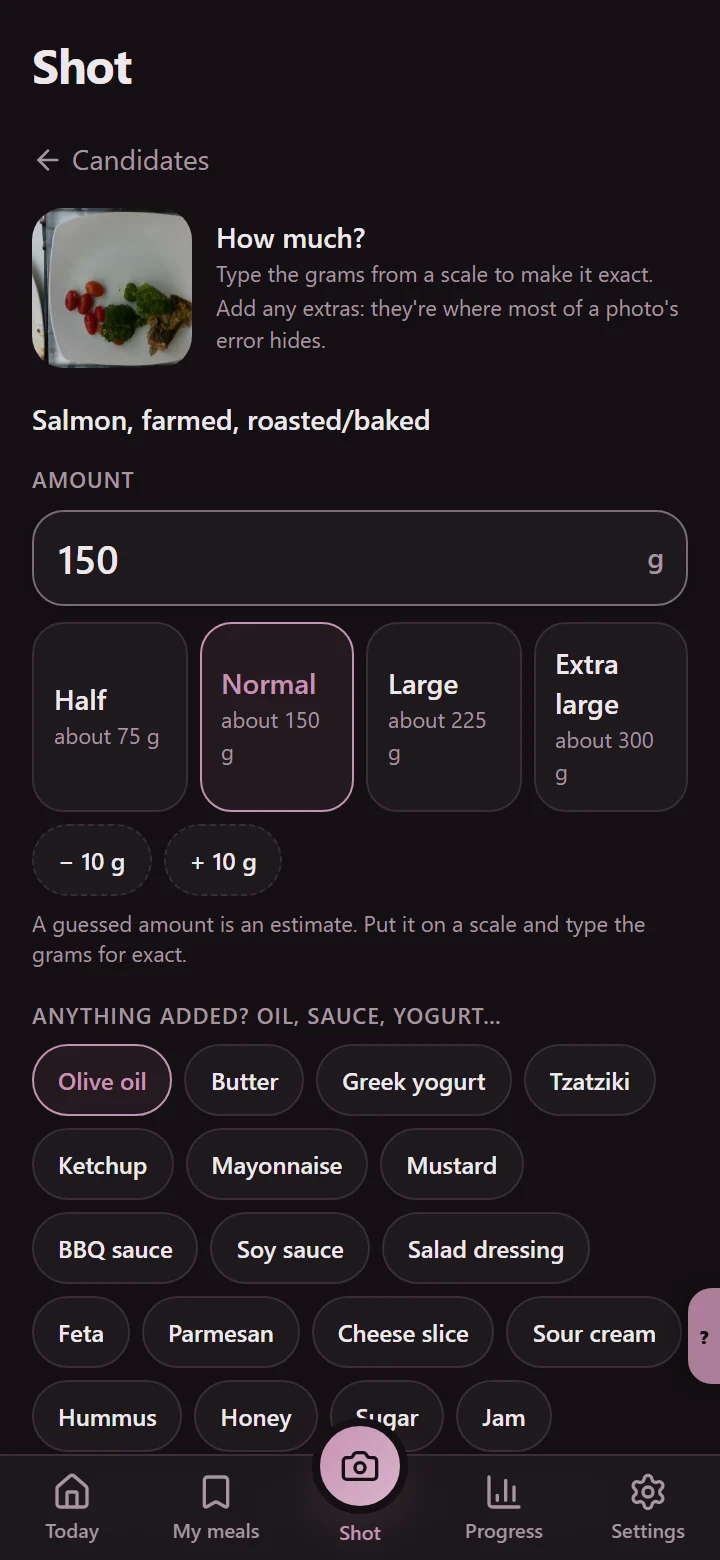
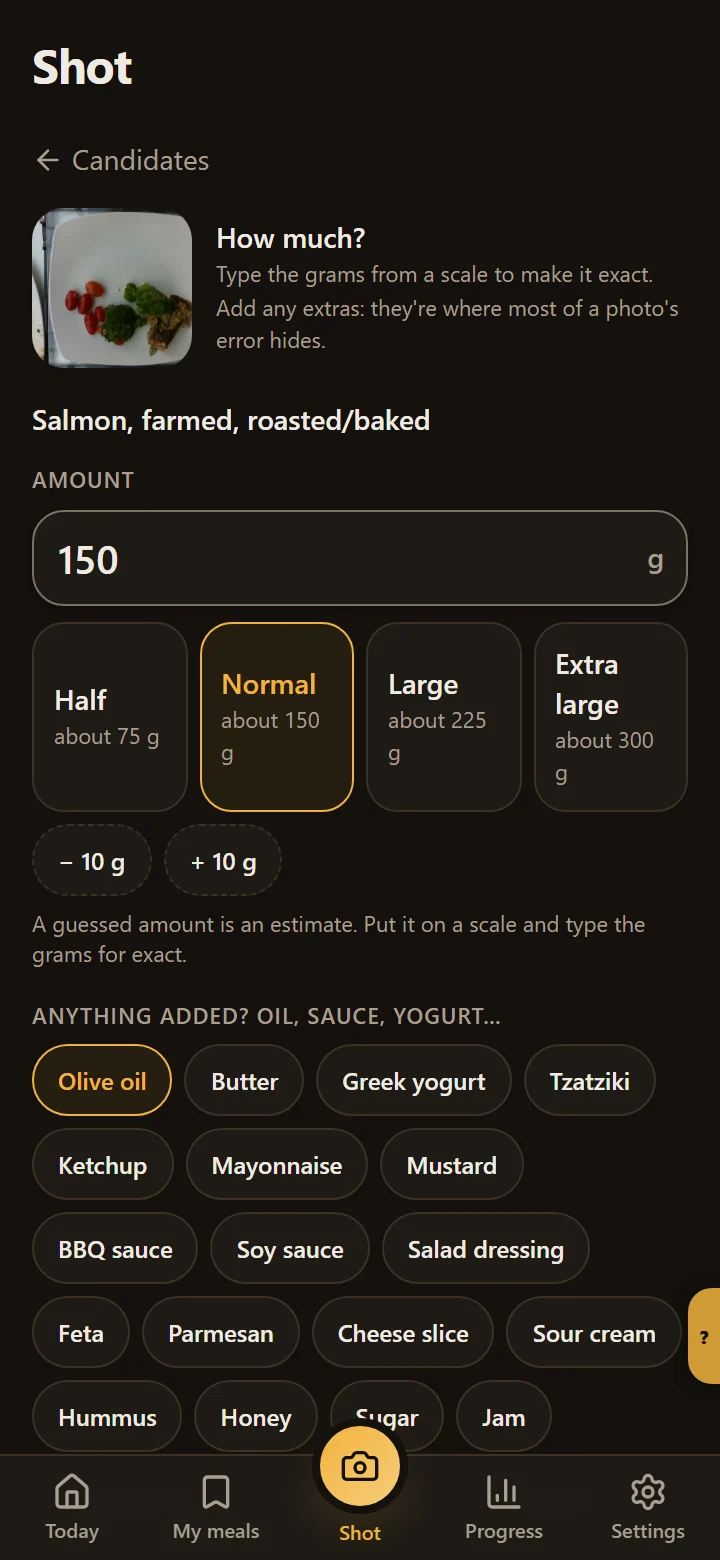
feat(site): honey look, matching the nutrition app's new default
- Honey accent on warm dark surfaces (the app's default theme and its new
  icon) in place of Fig: tokens, glows, theme colour, share image.
- Honey app icon and IB mark: header logo, site icons, favicon.
- Screenshots re-recorded from the app in dark Honey.

diff --git a/src/app/globals.css b/src/app/globals.css
@@ -10,14 +10,14 @@
  * off-white text, so every text-white and white/alpha border picks up the plum tint.
  */
 @theme inline {
-  --color-background: #151013;
-  --color-surface: #1e181c;
-  --color-surface-2: #292126;
-  --color-border: #392d35;
-  --color-primary: #c792b4;
-  --color-primary-glow: #d9b5cc;
-  --color-muted: #a696a0;
-  --color-white: #ede8eb;
+  --color-background: #14110d;
+  --color-surface: #1e1a15;
+  --color-surface-2: #2a241c;
+  --color-border: #3a3226;
+  --color-primary: #f2b33d;
+  --color-primary-glow: #f7cd7a;
+  --color-muted: #a89f92;
+  --color-white: #f0ebe3;
   --font-sans: "Inter", var(--font-plus-jakarta), ui-sans-serif, system-ui, sans-serif;
   --font-display: "Space Grotesk", var(--font-plus-jakarta), ui-sans-serif, system-ui, sans-serif;
 }
@@ -53,10 +53,10 @@ h3 {
   }
 }
 
-/* A soft fig glow behind the hero (the app's plum light), in place of the workout site's grid. */
+/* A soft honey glow behind the hero, in place of the workout site's grid. */
 .hero-grid {
-  background: radial-gradient(circle at 85% 0%, rgba(199, 146, 180, 0.2), rgba(199, 146, 180, 0) 45%),
-    radial-gradient(circle at 0% 30%, rgba(199, 146, 180, 0.08), rgba(199, 146, 180, 0) 35%);
+  background: radial-gradient(circle at 85% 0%, rgba(242, 179, 61, 0.2), rgba(242, 179, 61, 0) 45%),
+    radial-gradient(circle at 0% 30%, rgba(242, 179, 61, 0.08), rgba(242, 179, 61, 0) 35%);
 }
 
 @keyframes fade-up {

diff --git a/src/components/sections/Hero.tsx b/src/components/sections/Hero.tsx
@@ -21,7 +21,7 @@ export function Hero() {
           {/* The eyebrow is part of the H1 so the page's main heading names what the app is. */}
           <h1 className="max-w-xl">
             <span className="inline-flex items-center gap-2 rounded-full border border-border bg-surface py-1.5 pl-2.5 pr-3.5 font-[family-name:var(--font-display)] text-xs font-medium tracking-[0.04em] text-primary">
-              <span aria-hidden className="h-2 w-2 rounded-full bg-primary shadow-[0_0_12px_rgba(199,146,180,0.9)]" />
+              <span aria-hidden className="h-2 w-2 rounded-full bg-primary shadow-[0_0_12px_rgba(242,179,61,0.9)]" />
               {siteConfig.fullName} for Android
               <span className="sr-only">. </span>
             </span>

diff --git a/src/components/sections/Download.tsx b/src/components/sections/Download.tsx
@@ -12,7 +12,7 @@ export function Download() {
       <Container className="flex h-full min-h-0 flex-col justify-center">
         <Reveal>
           <div className="relative overflow-hidden rounded-[2rem] border border-primary/20 bg-surface px-6 py-10 text-center sm:px-12 sm:py-20">
-            <div className="pointer-events-none absolute inset-0 bg-[radial-gradient(ellipse_at_top,rgba(199,146,180,0.14),transparent_55%)]" />
+            <div className="pointer-events-none absolute inset-0 bg-[radial-gradient(ellipse_at_top,rgba(242,179,61,0.14),transparent_55%)]" />
             <div className="relative">
               <p className="text-xs font-semibold uppercase tracking-[0.22em] text-primary">
                 Download

diff --git a/src/components/FeatureCard.tsx b/src/components/FeatureCard.tsx
@@ -25,7 +25,7 @@ export function FeatureCard({
     </>
   );
   const className =
-    "group block rounded-2xl border border-white/8 bg-surface p-3 transition duration-300 hover:-translate-y-1 hover:border-primary/25 hover:shadow-[0_24px_60px_-32px_rgba(199,146,180,0.35)] sm:rounded-3xl sm:p-6 lg:p-7";
+    "group block rounded-2xl border border-white/8 bg-surface p-3 transition duration-300 hover:-translate-y-1 hover:border-primary/25 hover:shadow-[0_24px_60px_-32px_rgba(242,179,61,0.35)] sm:rounded-3xl sm:p-6 lg:p-7";
   if (href) {
     return (
       <article>

diff --git a/src/components/MobileSectionNav.tsx b/src/components/MobileSectionNav.tsx
@@ -97,7 +97,7 @@ export function MobileSectionNav() {
                   className={cn(
                     "block rounded-full transition-all duration-300",
                     isActive
-                      ? "h-3 w-3 bg-primary shadow-[0_0_14px_rgba(199,146,180,0.85)]"
+                      ? "h-3 w-3 bg-primary shadow-[0_0_14px_rgba(242,179,61,0.85)]"
                       : "h-2.5 w-2.5 border-[1.5px] border-white/50 bg-transparent",
                   )}
                 />

diff --git a/src/components/Logo.tsx b/src/components/Logo.tsx
@@ -11,7 +11,7 @@ export function Logo({ className }: { className?: string }) {
         height={32}
         decoding="async"
         fetchPriority="high"
-        className="h-8 w-8 rounded-lg shadow-[0_0_24px_rgba(199,146,180,0.22)]"
+        className="h-8 w-8 rounded-lg shadow-[0_0_24px_rgba(242,179,61,0.22)]"
       />
       <span className="text-[15px] font-semibold tracking-tight text-white">{siteConfig.fullName}</span>
     </span>

diff --git a/src/app/manifest.ts b/src/app/manifest.ts
@@ -12,8 +12,8 @@ export default function manifest(): MetadataRoute.Manifest {
     start_url: "/",
     scope: "/",
     display: "standalone",
-    background_color: "#151013",
-    theme_color: "#151013",
+    background_color: "#14110d",
+    theme_color: "#14110d",
     lang: "en",
     categories: ["health", "food", "fitness"],
     icons: [

diff --git a/src/app/layout.tsx b/src/app/layout.tsx
@@ -8,7 +8,7 @@ import "./fonts.css";
 import "./globals.css";
 
 export const viewport: Viewport = {
-  themeColor: "#151013",
+  themeColor: "#14110d",
   colorScheme: "dark",
   width: "device-width",
   initialScale: 1,
